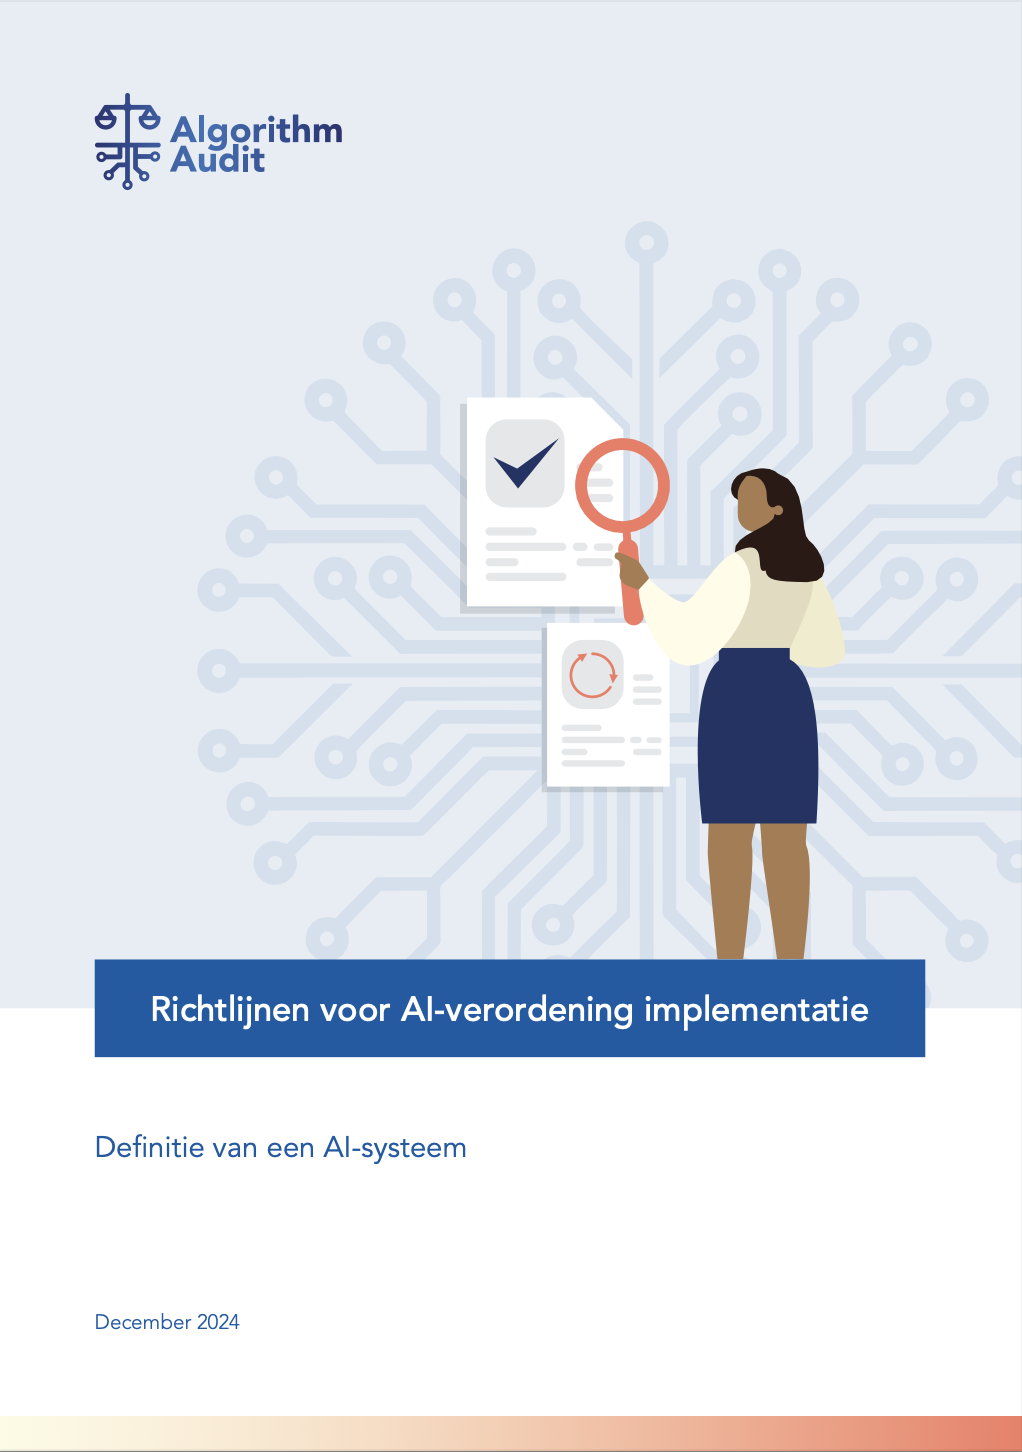
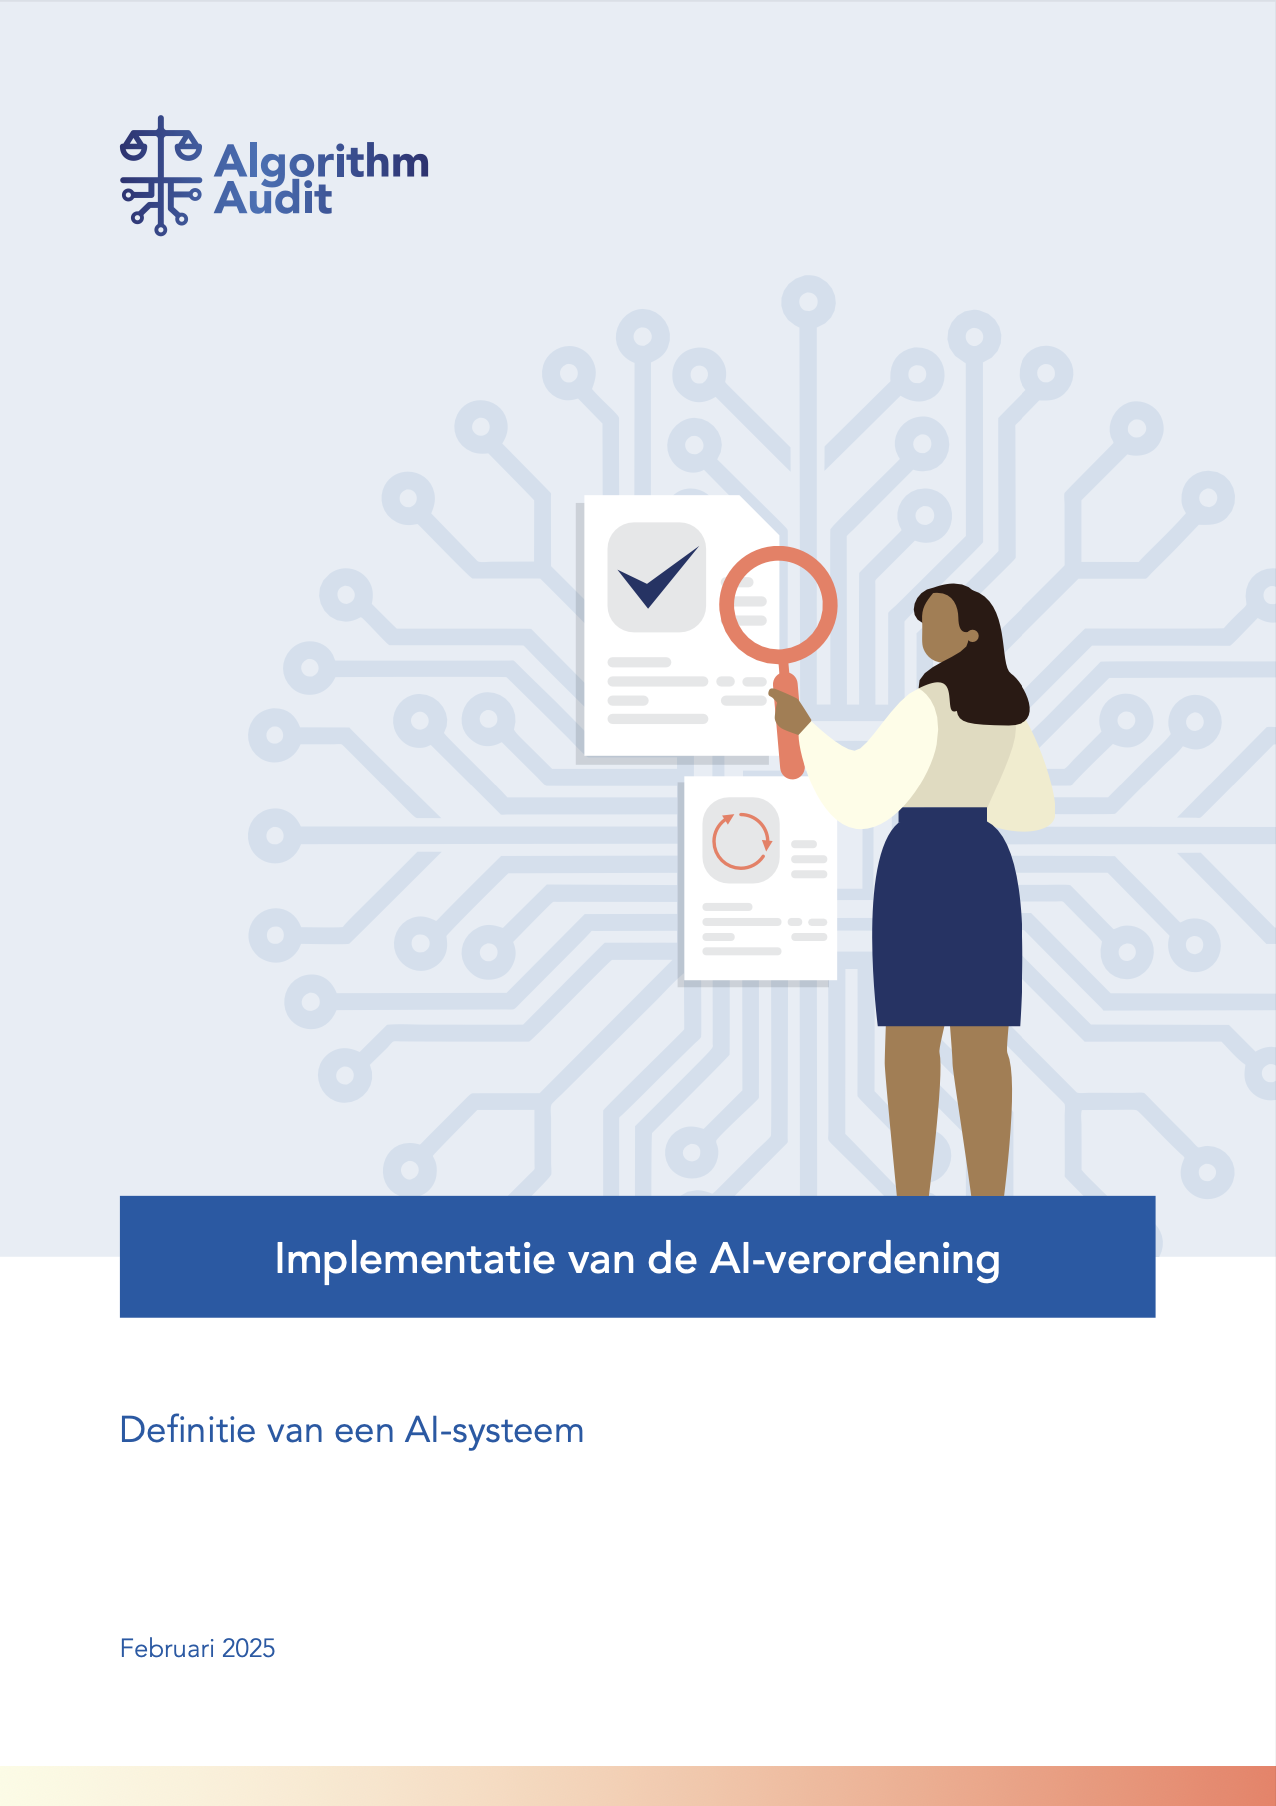
removed old whitepaper and updated with latest version EN NL

diff --git a/content/english/knowledge-platform/knowledge-base/Guidelines_AI_Act_implementation.md b/content/english/knowledge-platform/knowledge-base/Guidelines_AI_Act_implementation.md
@@ -4,16 +4,16 @@ featured: true
 layout: article
 type: knowledgebase_item
 author: Algorithm Audit
-summary: Guidelines for AI Act implementation
+summary: Guidelines how to implement the AI Act
 facets:
   - value: type_white_paper
     label: white paper
   - value: subject_AIAct
     label: AI Act implementation
 weight: -13
-title: Guidelines for AI Act implementation
+title: Implementation of the AI Act 
 subtitle: |
-  In-depth analysis and interpretation of the definition of AI systems as defined in the AI Act. 
+  In-depth analysis and interpretation of the definition of an AI system as defined in the AI Act. 
 image: /images/knowledge_base/White_paper_AI_system_defintion.png
 ---
 
@@ -28,4 +28,4 @@ It builds on our series of slides on AI Act implementation, integrating feedback
 - Explained when rule-based systems fulfil the AI system definition: https://lnkd.in/ez7dJshQ
 - 10 examples of (non) AI systems: https://www.linkedin.com/posts/algorithm-audit_10-examples-of-non-ai-systems-activity-7274353190588891136-FiMD?utm_source=share&utm_medium=member_desktop
 
-{{< embed_pdf url="/pdf-files/knowledge-base/20241218_Guidelines_AI_system_definition.pdf" width_mobile_pdf="12" width_desktop_pdf="6" >}}
+{{< embed_pdf url="/pdf-files/technical-tools/AIA-Implementation-Tool/20250228 White paper Implementation AI Act - definition.pdf" width_mobile_pdf="12" width_desktop_pdf="6" >}}

diff --git a/content/nederlands/knowledge-platform/knowledge-base/Guidelines_AI_Act_implementation.md b/content/nederlands/knowledge-platform/knowledge-base/Guidelines_AI_Act_implementation.md
@@ -28,4 +28,4 @@ De white paper bouwt voort op een reeks slides over AI-verordening implementatie
 - Verkenning wanneer regelgebaseerde systemen voldoen aan de definitie van een AI-systeem: https://lnkd.in/ez7dJshQ
 - 10 voorbeelden van (geen) AI-systemen: https://www.linkedin.com/posts/algorithm-audit_10-examples-of-non-ai-systems-activity-7274353190588891136-FiMD?utm_source=share&utm_medium=member_desktop
 
-{{< embed_pdf url="/pdf-files/knowledge-base/20241218 Richtlijnen AI-systeem definitie.pdf" width_mobile_pdf="12" width_desktop_pdf="6" >}}
+{{< embed_pdf url="/pdf-files/technical-tools/AIA-Implementation-Tool/20250228 White paper Implentatie AI-verordening - definitie.pdf" width_mobile_pdf="12" width_desktop_pdf="6" >}}

diff --git a/content/nederlands/_index.md b/content/nederlands/_index.md
@@ -43,12 +43,12 @@ Core_Activities:
       subtitle: Open source AI auditing tools
       url: /nl/technical-tools/bdt/
       icon: fa-light fa-toolbox
-      color: "#EFEEDA"
+      color: "#D5EBDB"
     - title: Projectwerk
       subtitle: "Algorithm validation, AI Act"
       url: /nl/knowledge-platform/project-work/
       icon: fa-light fa-magnifying-glass-plus
-      color: "#B4DEE8"
+      color: "#E3F0FE"
 Activity_Feed:
   enable: true
   button_text: Meer evenementen...
